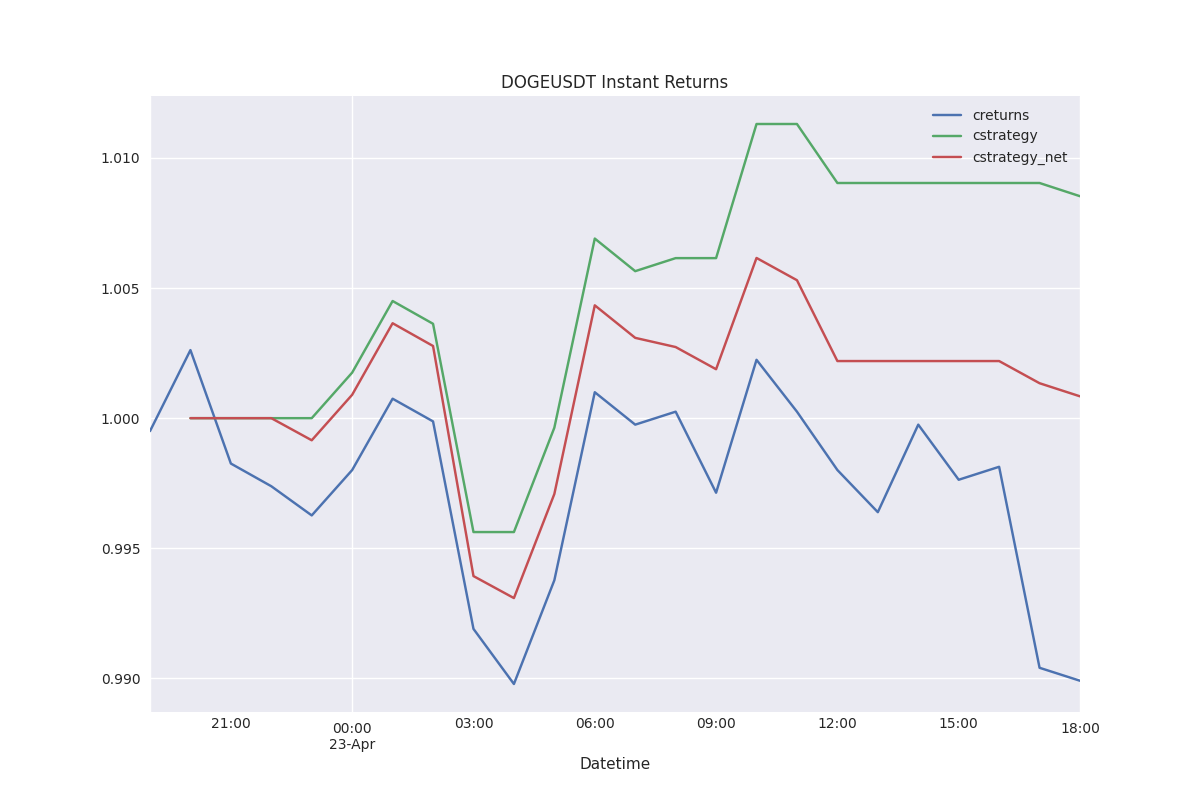
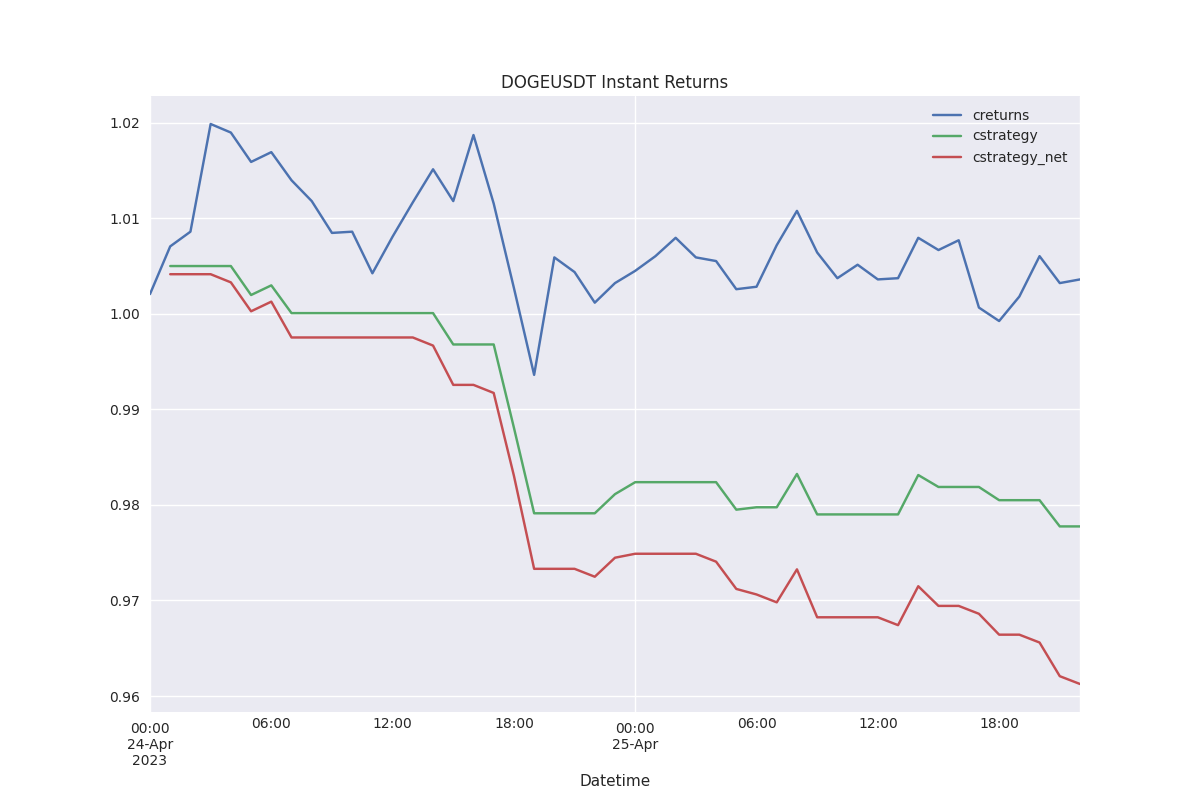
edited and trying strategies

diff --git a/src/KZ_project/ml_pipeline/services/binance_service/forecast_engine_hourly.py b/src/KZ_project/ml_pipeline/services/binance_service/forecast_engine_hourly.py
@@ -10,7 +10,7 @@ from KZ_project.ml_pipeline.ai_model_creator.xgboost_forecaster import XgboostFo
 from KZ_project.ml_pipeline.data_generator.data_manipulation import DataManipulation
 from KZ_project.ml_pipeline.services.twitter_service.tweet_sentiment_analyzer import TweetSentimentAnalyzer
 from KZ_project.ml_pipeline.services.twitter_service.twitter_collection import TwitterCollection
-
+from sklearn.metrics import accuracy_score, confusion_matrix
 #from sqlalchemy import create_engine
 #from sqlalchemy.orm import sessionmaker
 
@@ -38,7 +38,7 @@ class ForecastEngineHourly():
     def get_sentiment_daily_hourly_scores(self, hastag: str, 
                                            twitter_client: TwitterCollection,
                                            tsa: TweetSentimentAnalyzer,
-                                           hour: int=24*1):
+                                           hour: int=24*5):
         #print(f'attribuites get interval: {hastag} {hour} ')
         df_tweets = twitter_client.get_tweets_with_interval(hastag, 'en', hour=hour, interval=int(self.interval[0]))
         #print(f'######## Shape of {hastag} tweets df: {df_tweets.shape}')
@@ -88,8 +88,13 @@ class ForecastEngineHourly():
     
     def backtest_prediction(self, X_pd, y_pred):
         X_pd["position"] = [y_pred[i] for i, _ in enumerate(X_pd.index)]
-    
-        #print(X_pd[["log_return", "position"]]) 
+        X_pd["target"] = (X_pd['log_return'] > 0).astype(int)             ### bidaha bak gereksiz gibi
+        X_pd["target"] = X_pd['target'].shift(-1)                         ### bidaha bak gereksiz gibi
+        X_pd["target"][X_pd.index[-1]] = X_pd["target"][X_pd.index[-2]]   ### bidaha bak gereksiz gibi
+        
+        ccc = accuracy_score(list(X_pd["target"]), list(X_pd["position"]))  ### bidaha bak gereksiz gibi
+        
+        ##print(f'IN BACKTESET Accuracy skor for 2 days: {ccc}') 
     
         X_pd["strategy"] = X_pd.position.shift(1) * X_pd["log_return"]
         X_pd[["log_return", "strategy"]].sum().apply(np.exp)
@@ -125,28 +130,29 @@ class ForecastEngineHourly():
                     tree_method='gpu_hist', eval_metric='logloss')
         self.ai_type = xgb.__class__.__name__
         
-        #session = get_session()
-        #repo = ForecastModelRepository(session)
-        #print(f'deneme forecast: {self.symbol} {config.BinanceConfig.interval_model} {self.ai_type}')
-        #try:
-        #    fm_model = services.get_forecast_model(
-        #                    "BNBUSDT", 
-        #                    "1h",
-        #                    "XgboostForecaster",
-        #                    repo,
-        #                    session
-        #                    )
-        #except Exception as e:
-        #    print(f'errors occured frmodel: {e}')
-        #print(f'son test {fm_model}')
-        #fm_model_name = fm_model.model_name
-        #md_name = self.get_model_name_with_api()
-        print(f'interval: {self.interval}')
+        #print(f'interval: {self.interval}')
         model_t = RequestServices.get_model_with_api(self.symbol, self.interval, self.ai_type)
-        print(f'modelll nameee: {model_t["model_name"]}')
+        #print(f'modelll nameee: {model_t["model_name"]}')
         xgb.load_model(f'./src/KZ_project/ml_pipeline/ai_model_creator/model_stack/{self.hastag}/{model_t["model_name"]}')
         #print(f'./src/KZ_project/ml_pipeline/ai_model_creator/model_stack/{self.hastag}/{model_t["model_name"]}')
         
+        
+        ############################ instantly 1 week model train results ##########
+        print(f'############################ instantly 1 week model train results ##########')
+        yyy = df_final.feature_label
+        xxx = df_final.drop(columns=['feature_label'], axis=1)
+
+        xgbk = XgboostForecaster(objective='binary', n_estimators=500, eta=0.01, max_depth=7, 
+                    tree_method='gpu_hist', eval_metric='logloss')
+        xgbk.create_train_test_data(xxx, yyy, test_size=0.2)
+        xgbk.fit()
+        yytest = xgbk.y_test
+        ypred_reg = xgbk.model.predict(xgbk.X_test)
+        print(f'Accuracy for 5 days traing result: {accuracy_score(yytest, ypred_reg)}')
+        print(f'XXX 5 days training last row {xxx.iloc[-1]}\n prediction last candle {ypred_reg[-1]}')
+        
+        self.backtest_prediction(xxx, ypred_reg)
+        self.trade_fee_net_returns(xxx)
         
         #if self.hastag == 'btc':
         #    xgb.load_model('./src/KZ_project/ml_pipeline/ai_model_creator/model_stack/btc/test_BTCUSDT_binance_model_price_2h_feature_numbers_225.json')
@@ -159,8 +165,8 @@ class ForecastEngineHourly():
         self.prepared_data = X
 
         ypred_reg = xgb.model.predict(X)
-        self.backtest_prediction(X, ypred_reg)
-        self.trade_fee_net_returns(X)
+        #self.backtest_prediction(X, ypred_reg)      ### sonra tekrar ac
+        #self.trade_fee_net_returns(X)
         
     
         return str(X.index[-1] + timedelta(hours=int(self.interval[0]))), int(ypred_reg[-1])
@@ -239,7 +245,7 @@ class ForecastEngineHourly():
         hourly_tsa = self.get_tweet_sentiment_hourly(hourly)
         df_final = self.composite_tweet_sentiment_and_data_manipulation(data, hourly_tsa, tsa)
         Xt, next_candle_prediction = self.predict_last_day_and_next_hour(df_final)
-        print(f'\n\nlast row: {Xt}\nNext Candle Hourly Prediction for {self.symbol} is: {next_candle_prediction}\n\n')
+        print(f'\n\nDatabase Model Last row: {Xt}\nNext Candle Hourly Prediction for {self.symbol} is: {next_candle_prediction}\n\n')
         #self.prediction_service(symbol=self.symbol, Xt=Xt, next_candle_prediction=next_candle_prediction)
         #self.prediction_service_new_signaltracker(self.ai_type, Xt, next_candle_prediction)
         #scode = self.post_signaltracker_with_api(next_candle_prediction, self.hastag, self.tweet_counts, Xt)

diff --git a/src/KZ_project/ml_pipeline/ai_model_creator/model_engine.py b/src/KZ_project/ml_pipeline/ai_model_creator/model_engine.py
@@ -58,6 +58,7 @@ class ModelEngine():
         sent_tweets = sent_tweets.loc[:ss]
         return sent_tweets
     
+    
     def composite_tweet_sentiment_and_data_manipulation(self, data: DataManipulation,
                                                              tsa: TweetSentimentAnalyzer,
                                                          sent_tweets: pd.DataFrame()):
@@ -123,6 +124,9 @@ class ModelEngine():
         xgb.fit()
     
         self.model_name = f'test_{self.symbol}_{self.source}_model_price_{self.interval}_feature_numbers_{X.shape[1]}.json'
+        
+        # try for instant model evaluation for one week
+        self.model_name
     
         xgb.save_model(f'./src/KZ_project/ml_pipeline/ai_model_creator/model_stack/{self.symbol_cut}/{self.model_name}')
         score = xgb.get_score()
@@ -165,6 +169,7 @@ class ModelEngine():
         ypr = xgb.model.predict(X)
         self.backtest_prediction(X, ypr)
         self.trade_fee_net_returns(X)
+        print(f'x last row {X.iloc[-1]}\n prediction last candle {ypr[-1]}')
         
     def start_model_engine(self, data:DataManipulation,
                             tsa: TweetSentimentAnalyzer, tweet_file):

diff --git a/src/KZ_project/ml_pipeline/services/binance_service/ai_trader.py b/src/KZ_project/ml_pipeline/services/binance_service/ai_trader.py
@@ -158,11 +158,11 @@ if __name__ == '__main__':
 
 
     def web_socket_trader_starter():
-        cr_list = [{"symbol":"BTCUSDT", "name":"btc", "bar_length":"3m"}, 
-                   {"symbol":"BNBUSDT", "name":"bnb", "bar_length":"3m"},
+        cr_list = [{"symbol":"BTCUSDT", "name":"btc", "bar_length":"5m"}, 
+                   {"symbol":"BNBUSDT", "name":"bnb", "bar_length":"5m"},
                    {"symbol":"XRPUSDT", "name":"xrp", "bar_length":"5m"},
-                   {"symbol":"ETHUSDT", "name":"eth", "bar_length":"5m"},
-                   {"symbol":"DOGEUSDT", "name":"doge", "bar_length":"5m"}]
+                   {"symbol":"ETHUSDT", "name":"eth", "bar_length":"3m"},
+                   {"symbol":"DOGEUSDT", "name":"doge", "bar_length":"3m"}]
         trader_c_list = []
         for coin_d in cr_list:
             engine = ForecastEngineHourly(coin_d["name"], coin_d["symbol"], "1h")
@@ -181,7 +181,7 @@ if __name__ == '__main__':
         for i in trader_c_list:
             i.start_trading()    
         
-        time.sleep(60*20)
+        time.sleep(60*30)
         
         for i in trader_c_list:
             i.stop_trading()
